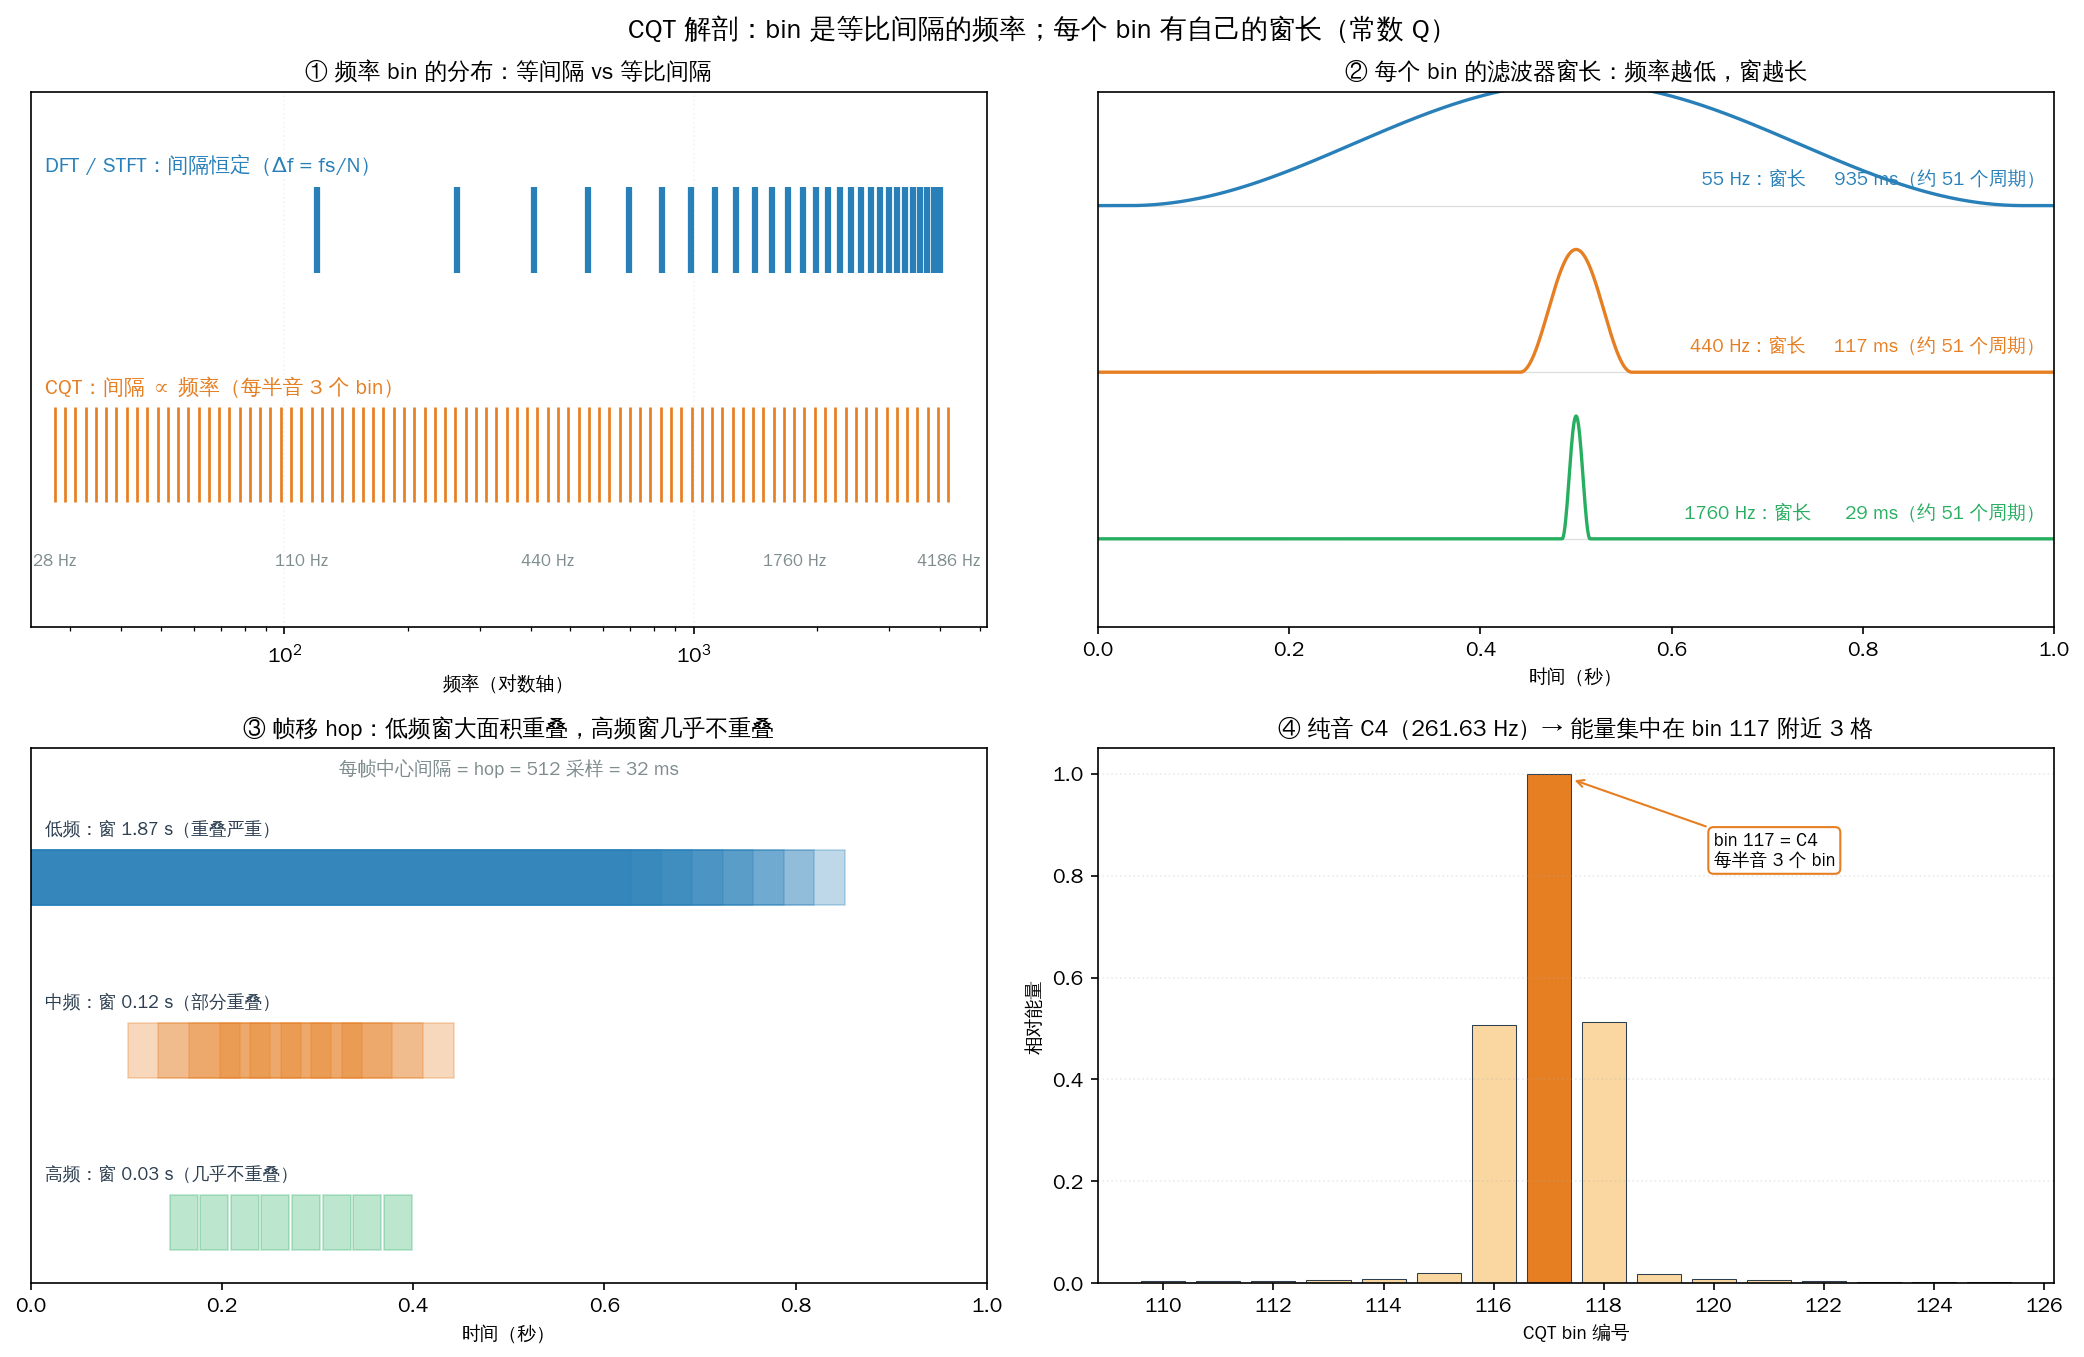
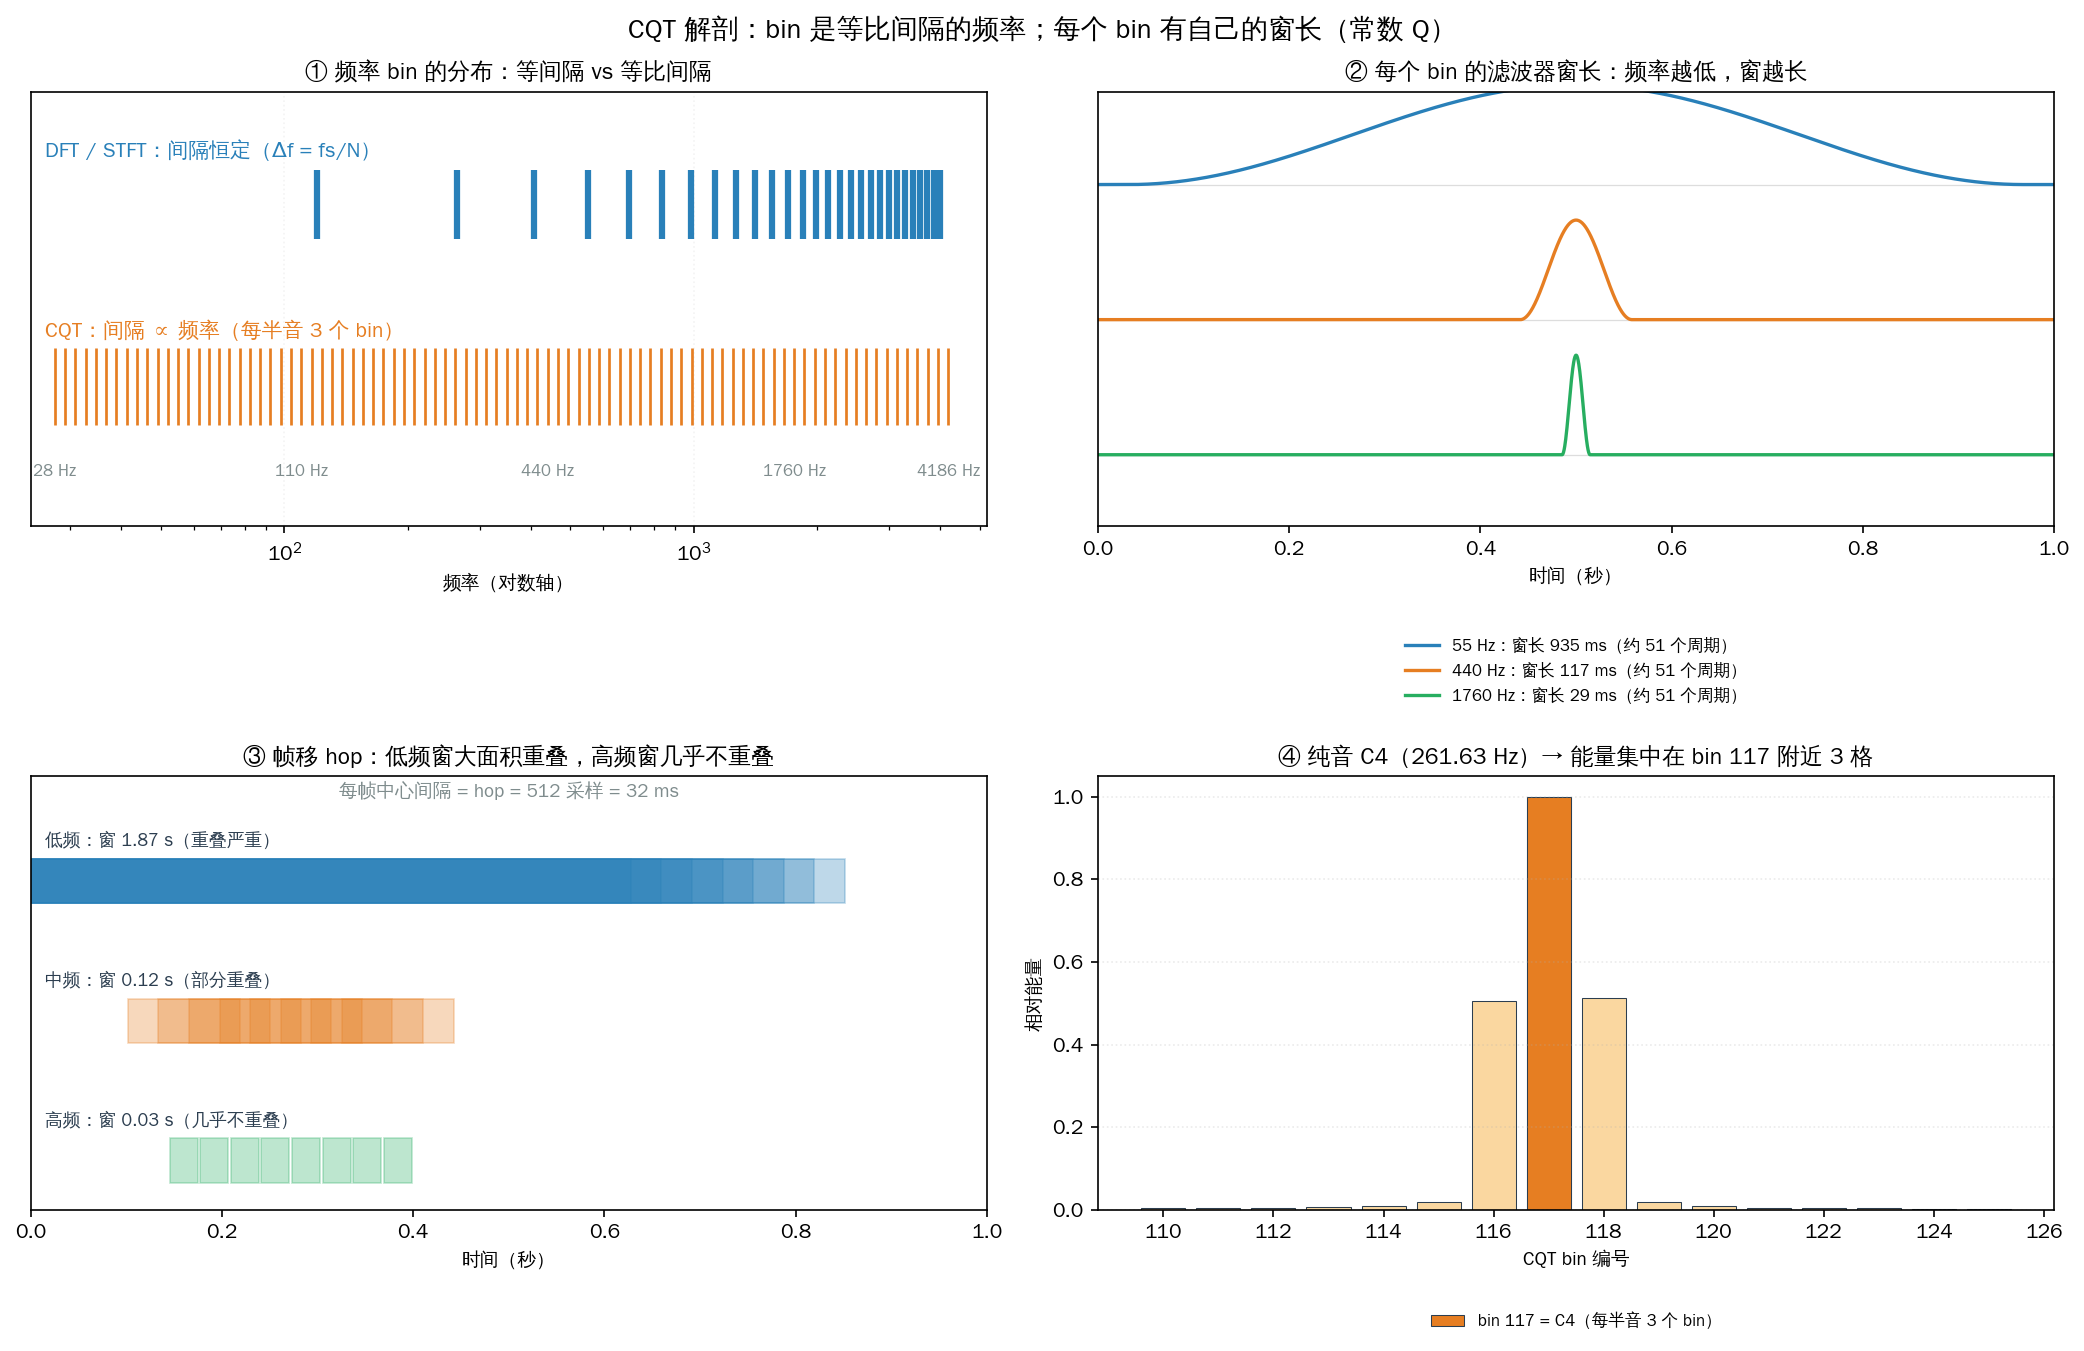
docs: 重画 CQT 两张教学图，把标注全部移出绘图区
- plot_cqt_filter.py 重写：图例统一放到坐标轴下方，数据区不再放任何文字或箭头；面板②的能量值写进标题；面板④的补零区域用斜线填充并在中性色文字说明
- plot_cqt_explainer.py：三个频率的说明从曲线旁文字改为轴下方的图例；纯音面板去掉箭头标注，bin 117 的说明移入图例
- 解决原图「文字压在曲线上、文字颜色与曲线相同、箭头混淆」的问题
- 更新 docs/figs/22_cqt_explained.png 与 23_cqt_filter.png

co-authored by: DeepSeek Harness 0.2.2-rc.1 (deepseek-flash / DeepSeek-V41-Flash)

diff --git a/scripts/plot_cqt_filter.py b/scripts/plot_cqt_filter.py
@@ -1,10 +1,13 @@
-"""画一张「CQT 的滤波器 h 在做什么」的图解。
+"""画一张「CQT 的滤波器 h 在做什么」的图解（清爽版）。
 
 四格：
     ① 滤波器 = 窗函数 × 复正弦（小波）
-    ② 内积：信号段 × 小波 → 一个复数（取模 = 能量）
-    ③ 频率响应：Hann 窗 vs 矩形窗，说明「两侧为 0」的作用
+    ② 内积：信号段 × 小波 → 一个复数（|X| = 能量）
+    ③ 频率响应：Hann 窗 vs 矩形窗（旁瓣/泄漏）
     ④ 短音频的边界问题：1 秒音频放不下 1.87 秒的低频窗
+
+排版约定：图例一律放在坐标轴下方，数据区里不放任何文字标注，
+避免文字压曲线、颜色与曲线混淆。
 
 输出：docs/figs/23_cqt_filter.png
 """
@@ -18,61 +21,71 @@ from piano2 import plot_style
 plot_style.use_cjk_font()
 import matplotlib.pyplot as plt  # noqa: E402
 
-SR, BPO, FMIN = 16000, 36, 27.5
+SR, BPO = 16000, 36
 Q = 1.0 / (2 ** (1 / BPO) - 1)
 C = plot_style
 
 
-def wavelet(freq, n=None):
+def wavelet(freq):
     """返回 (复小波, 窗长采样数, 时间轴秒)。"""
-    n = n or int(round(Q * SR / freq))
+    n = int(round(Q * SR / freq))
     t = np.arange(n) / SR
     window = 0.5 * (1 - np.cos(2 * np.pi * np.arange(n) / n))
     return window * np.exp(2j * np.pi * freq * t), n, t
 
 
+def legend_below(ax, ncol=2):
+    """把图例放到坐标轴下方（不占数据区）。"""
+    ax.legend(loc="upper center", bbox_to_anchor=(0.5, -0.20), ncol=ncol,
+              fontsize=8, frameon=False)
+
+
 def panel_wavelet(ax):
-    """① 滤波器 = 窗函数 × 复正弦。"""
+    """① h = 窗函数 × 复正弦。"""
     freq = 440.0
     psi, n, t = wavelet(freq)
     ax.plot(t * 1000, psi.real, color=C.COLOR_BLUE, linewidth=0.8, label="复小波实部")
     ax.plot(t * 1000, np.abs(psi), color=C.COLOR_ORANGE, linewidth=1.2,
             linestyle="--", label="窗函数包络")
-    ax.plot(t * 1000, -np.abs(psi), color=C.COLOR_ORANGE, linewidth=1.2, linestyle="--")
+    ax.plot(t * 1000, -np.abs(psi), color=C.COLOR_ORANGE, linewidth=1.2,
+            linestyle="--", label="_nolegend_")
     ax.set_xlim(0, t[-1] * 1000)
+    ax.set_ylim(-1.15, 1.15)
     ax.set_xlabel("窗内时间（ms）", fontsize=9)
     ax.set_ylabel("幅度", fontsize=9)
-    ax.legend(fontsize=8, loc="upper right")
-    ax.set_title(f"① 滤波器 h = 窗函数 × 复正弦（{freq:.0f} Hz，窗长 {n/SR*1000:.0f} ms）",
-                 fontsize=10.5)
-    ax.text(t[-1]*500, -1.12, f"窗内约 {Q:.0f} 个周期，两侧被窗函数压到 0", fontsize=8.5,
-            color=C.COLOR_GRAY, ha="center")
+    ax.set_title(f"① h = 窗函数 × 复正弦（{freq:.0f} Hz，窗长 {n/SR*1000:.0f} ms，"
+                 f"约 {Q:.0f} 个周期）", fontsize=10)
+    legend_below(ax)
+    ax.grid(alpha=0.18, linestyle=":")
 
 
 def panel_inner(ax):
-    """② 内积：信号段 × 小波 → 复数。"""
+    """② 内积：信号 × 小波 → 复数。"""
     freq = 440.0
     psi, n, t = wavelet(freq)
     rng = np.random.default_rng(0)
     signal = 0.6 * np.sin(2 * np.pi * freq * t) + 0.05 * rng.standard_normal(n)
     product = signal * np.conj(psi)
     coeff = np.sum(product) / n
-    ax.plot(t * 1000, signal[:n], color="#bbbbbb", linewidth=0.7, label="信号 x[n]")
-    ax.plot(t * 1000, np.abs(psi), color=C.COLOR_ORANGE, linewidth=0.9,
-            linestyle="--", label="|h[n]|")
-    ax.plot(t * 1000, product.real / max(1e-9, np.max(np.abs(product.real))) * 0.6,
-            color=C.COLOR_GREEN, linewidth=0.9, label="乘积的实部")
+    product_norm = product.real / max(1e-9, np.max(np.abs(product.real))) * 0.6
+
+    ax.plot(t * 1000, signal, color="#8e8e8e", linewidth=0.7, alpha=0.8, label="信号 x[n]")
+    ax.plot(t * 1000, np.abs(psi) * 0.95, color=C.COLOR_ORANGE, linewidth=1.0,
+            linestyle="--", label="|h[n]|（窗包络）")
+    ax.plot(t * 1000, product_norm, color=C.COLOR_GREEN, linewidth=0.9,
+            label="x[n]·h[n] 的实部（归一化）")
     ax.set_xlim(0, t[-1] * 1000)
+    ax.set_ylim(-1.15, 1.15)
     ax.set_xlabel("窗内时间（ms）", fontsize=9)
-    ax.set_ylabel("幅度", fontsize=9)
-    ax.legend(fontsize=8, loc="upper right")
-    ax.set_title("② 内积：Σ x[n]·h[n] → 一个复数；|系数| 就是该 bin 的能量", fontsize=10.5)
-    ax.text(t[-1]*500, -0.95, f"这一帧这一 bin 的能量 = |X| ≈ {abs(coeff):.2f}",
-            fontsize=9, color=C.COLOR_DARK, ha="center")
+    ax.set_ylabel("幅度（归一化）", fontsize=9)
+    ax.set_title(f"② 内积 Σ x[n]·h[n] → 一个复数；本帧 |X| ≈ {abs(coeff):.2f}",
+                 fontsize=10)
+    legend_below(ax, ncol=2)
+    ax.grid(alpha=0.18, linestyle=":")
 
 
 def panel_response(ax):
-    """③ 频率响应：Hann 窗 vs 矩形窗。"""
+    """③ 窗函数对频谱泄漏的影响。"""
     n = int(round(Q * SR / 440.0))
     t = np.arange(n) / SR
     hann = 0.5 * (1 - np.cos(2 * np.pi * np.arange(n) / n))
@@ -83,50 +96,50 @@ def panel_response(ax):
     spec_hann = spec_hann / spec_hann.max()
     spec_rect = spec_rect / spec_rect.max()
     mask = freqs <= 1200
-    ax.plot(freqs[mask], 20 * np.log10(spec_hann[mask] + 1e-9),
-            color=C.COLOR_BLUE, linewidth=1.3, label="Hann 窗（我们的窗）")
-    ax.plot(freqs[mask], 20 * np.log10(spec_rect[mask] + 1e-9),
-            color=C.COLOR_RED, linewidth=1.0, alpha=0.8, label="矩形窗（不衰减两侧）")
-    ax.set_ylim(-80, 5)
+    ax.semilogy(freqs[mask], spec_hann[mask], color=C.COLOR_BLUE, linewidth=1.3,
+                label="Hann 窗（本项目使用）")
+    ax.semilogy(freqs[mask], spec_rect[mask], color=C.COLOR_RED, linewidth=1.0,
+                alpha=0.75, label="矩形窗（不压两侧）")
+    ax.set_ylim(1e-4, 1.3)
     ax.set_xlabel("频率（Hz）", fontsize=9)
-    ax.set_ylabel("幅度（dB，归一化）", fontsize=9)
-    ax.legend(fontsize=8, loc="upper right")
-    ax.set_title("③ 窗函数的作用：压住两侧 → 频谱泄漏小很多", fontsize=10.5)
-    ax.annotate("矩形窗旁瓣高\n（泄漏到隔壁 bin）", xy=(520, -13), xytext=(650, -45),
-                fontsize=8, color=C.COLOR_RED,
-                arrowprops={"arrowstyle": "->", "color": C.COLOR_RED})
-    ax.grid(alpha=0.2, linestyle=":")
+    ax.set_ylabel("幅度（归一化，对数轴）", fontsize=9)
+    ax.set_title("③ 压住两侧 → 旁瓣低很多 → 漏到隔壁 bin 的能量更少", fontsize=10)
+    legend_below(ax)
+    ax.grid(alpha=0.18, which="both", linestyle=":")
 
 
 def panel_short(ax):
-    """④ 短音频 vs 低频窗：窗放不下。"""
+    """④ 1 秒音频 vs 1.87 秒低频窗。"""
     ax.set_xlim(0, 2.0)
-    ax.set_ylim(0, 2.4)
-    ax.add_patch(plt.Rectangle((0, 0.9), 1.0, 0.5, facecolor=C.COLOR_BG_GREEN,
+    ax.set_ylim(0.2, 2.5)
+    # 信号
+    ax.add_patch(plt.Rectangle((0, 0.75), 1.0, 0.5, facecolor=C.COLOR_BG_GREEN,
                                edgecolor=C.COLOR_GREEN, linewidth=1.2))
-    ax.text(0.5, 1.15, "1 秒音频", ha="center", va="center", fontsize=10)
-    ax.add_patch(plt.Rectangle((0, 1.55), 1.87, 0.5, facecolor=C.COLOR_BG_ORANGE,
-                               edgecolor=C.COLOR_ORANGE, linewidth=1.2, alpha=0.9))
-    ax.text(0.95, 1.8, "低频 bin 的窗（1.87 s）", ha="center", va="center", fontsize=10)
-    ax.annotate("", xy=(1.87, 2.15), xytext=(1.0, 2.15),
-                arrowprops={"arrowstyle": "<->", "color": C.COLOR_RED, "linewidth": 1.2})
-    ax.text(1.43, 2.24, "只能补零", ha="center", fontsize=9, color=C.COLOR_RED)
-    ax.text(0.02, 0.55, "信号在窗内只占一半多 → 低频 bin 的边缘效应变强、能量被低估；\n"
-                        "歌曲有几分钟长，这个问题只在开头/结尾的少数帧出现。",
-            fontsize=9, color=C.COLOR_DARK)
+    ax.text(0.5, 1.0, "1 秒音频", ha="center", va="center", fontsize=10)
+    # 窗：左段有信号，右段补零
+    ax.add_patch(plt.Rectangle((0, 1.45), 1.0, 0.5, facecolor=C.COLOR_BG_ORANGE,
+                               edgecolor=C.COLOR_ORANGE, linewidth=1.2))
+    ax.add_patch(plt.Rectangle((1.0, 1.45), 0.87, 0.5, facecolor="white",
+                               edgecolor=C.COLOR_ORANGE, linewidth=1.2, hatch="//"))
+    ax.text(0.5, 1.7, "低频 bin 的窗（1.87 秒）", ha="center", va="center", fontsize=10)
+    ax.text(1.435, 1.7, "补零", ha="center", va="center", fontsize=9,
+            color=C.COLOR_DARK)
+    ax.text(1.0, 0.45, "信号只占窗的一半多 → 低频 bin 有边缘效应；\n"
+                       "歌曲有几分钟长，只影响开头/结尾的少数帧。",
+            ha="center", fontsize=9, color=C.COLOR_DARK)
     ax.set_yticks([])
     ax.set_xlabel("时间（秒）", fontsize=9)
-    ax.set_title("④ 1 秒音频放不下低频窗：两侧要补零", fontsize=10.5)
+    ax.set_title("④ 1 秒音频放不下 1.87 秒的低频窗：两侧补零", fontsize=10)
 
 
 def main():
-    fig, axes = plt.subplots(2, 2, figsize=(13.5, 9))
+    fig, axes = plt.subplots(2, 2, figsize=(13.5, 9.4))
     panel_wavelet(axes[0, 0])
     panel_inner(axes[0, 1])
     panel_response(axes[1, 0])
     panel_short(axes[1, 1])
     fig.suptitle("CQT 的滤波器 h：小波 → 内积 → 一个 bin 的能量", fontsize=13)
-    fig.tight_layout()
+    fig.tight_layout(rect=(0, 0, 1, 0.97))
     out = "/Docker/git/piano2/docs/figs/23_cqt_filter.png"
     plot_style.save(fig, out)
     plt.close(fig)

diff --git a/scripts/plot_cqt_explainer.py b/scripts/plot_cqt_explainer.py
@@ -60,10 +60,11 @@ def panel_wavelets(ax):
         u = (t - 0.5) / win
         env = np.where(np.abs(u) <= 0.5, 0.5 * (1 + np.cos(2 * np.pi * u)), 0.0)
         y = 2.2 - i * 0.95
-        ax.plot(t, env * 0.7 + y, color=color, linewidth=1.6)
-        ax.text(0.99, y + 0.12, f"{freq:6.0f} Hz：窗长 {win * 1000:7.0f} ms（约 51 个周期）",
-                fontsize=9, color=color, ha="right")
+        ax.plot(t, env * 0.7 + y, color=color, linewidth=1.6,
+                label=f"{freq:.0f} Hz：窗长 {win * 1000:.0f} ms（约 51 个周期）")
         ax.axhline(y, color="#dddddd", linewidth=0.6, zorder=0)
+    ax.legend(loc="upper center", bbox_to_anchor=(0.5, -0.22), ncol=1,
+              fontsize=8, frameon=False)
     ax.set_xlim(0, 1.0)
     ax.set_ylim(-0.2, 2.85)
     ax.set_yticks([])
@@ -104,14 +105,13 @@ def panel_tone(ax):
     vals = energy[ks] / energy.max()
     colors = [C.COLOR_ORANGE if k == 117 else C.COLOR_LIGHT_ORANGE for k in ks]
     ax.bar(ks, vals, color=colors, edgecolor=C.COLOR_DARK, linewidth=0.5)
+    ax.bar([117], [vals[ks == 117][0]], color=C.COLOR_ORANGE,
+           edgecolor=C.COLOR_DARK, linewidth=0.5, label="bin 117 = C4（每半音 3 个 bin）")
     ax.set_xlabel("CQT bin 编号", fontsize=9)
     ax.set_ylabel("相对能量", fontsize=9)
     ax.set_title("④ 纯音 C4（261.63 Hz）→ 能量集中在 bin 117 附近 3 格", fontsize=11)
-    ax.annotate("bin 117 = C4\n每半音 3 个 bin", xy=(117.4, 0.99), xytext=(120.0, 0.82),
-                fontsize=8.5, ha="left",
-                bbox={"facecolor": "white", "edgecolor": C.COLOR_ORANGE,
-                      "boxstyle": "round,pad=0.3"},
-                arrowprops={"arrowstyle": "->", "color": C.COLOR_ORANGE})
+    ax.legend(loc="upper center", bbox_to_anchor=(0.5, -0.20), ncol=1,
+              fontsize=8, frameon=False)
     ax.grid(axis="y", alpha=0.25, linestyle=":")
 
 
